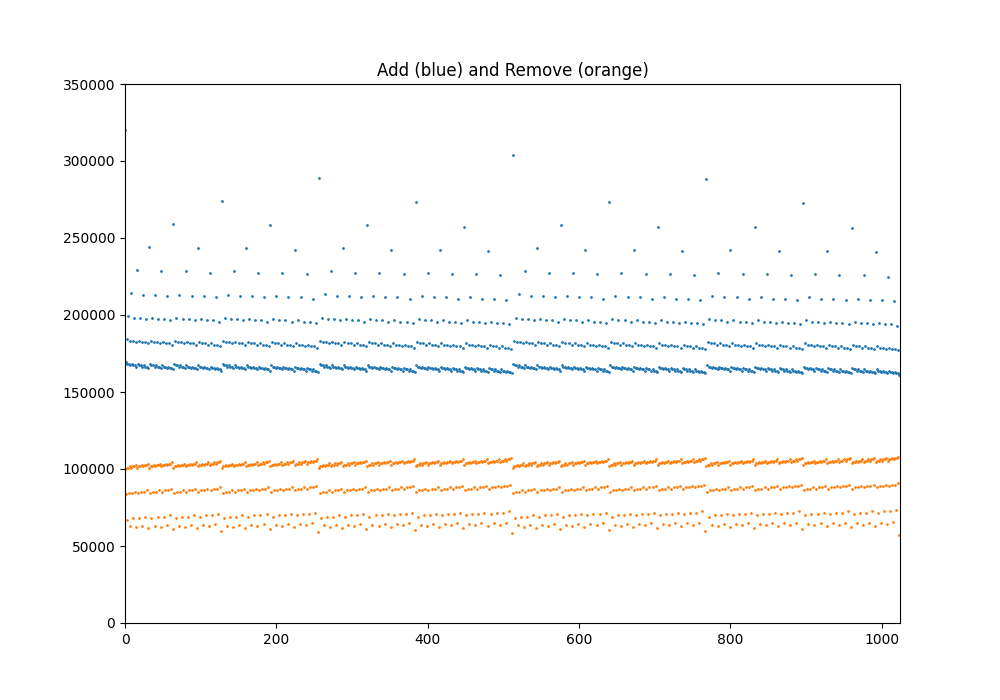
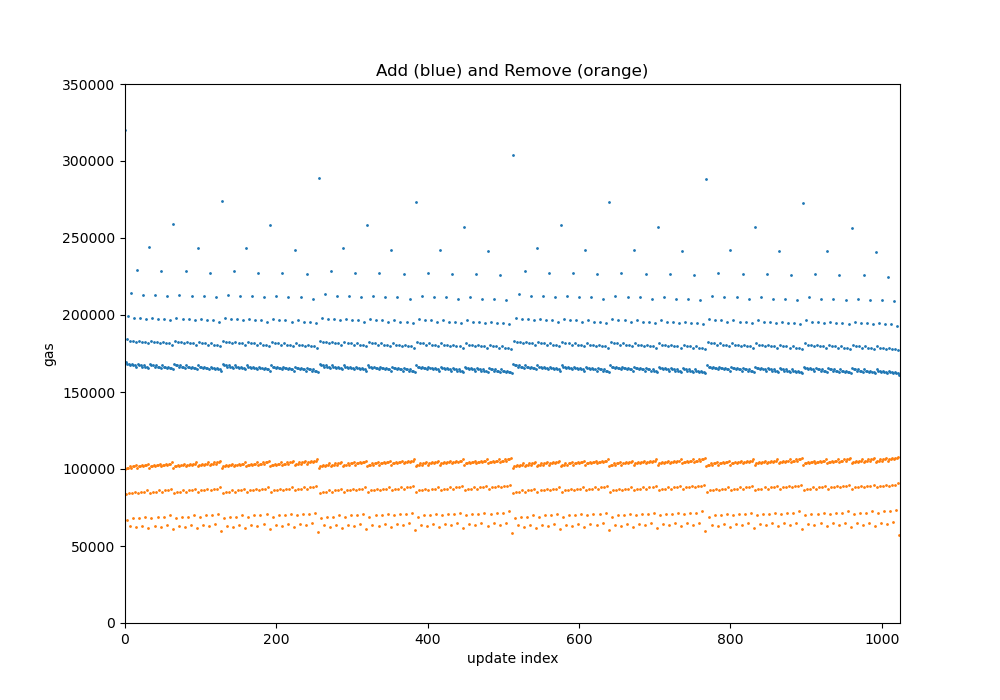
Add axis labels

diff --git a/diagram.py b/diagram.py
@@ -15,6 +15,8 @@ def create_plot(gas_used_add, gas_used_remove):
     fig = plt.figure()
     fig.set_size_inches(10, 7)
     ax = fig.add_subplot(1, 1, 1)
+    ax.set_ylabel("gas")
+    ax.set_xlabel("update index")
 
 
     ax.plot(xdata1, ydata1, color='tab:blue', marker='o', markersize=1, linewidth = 0.0)
